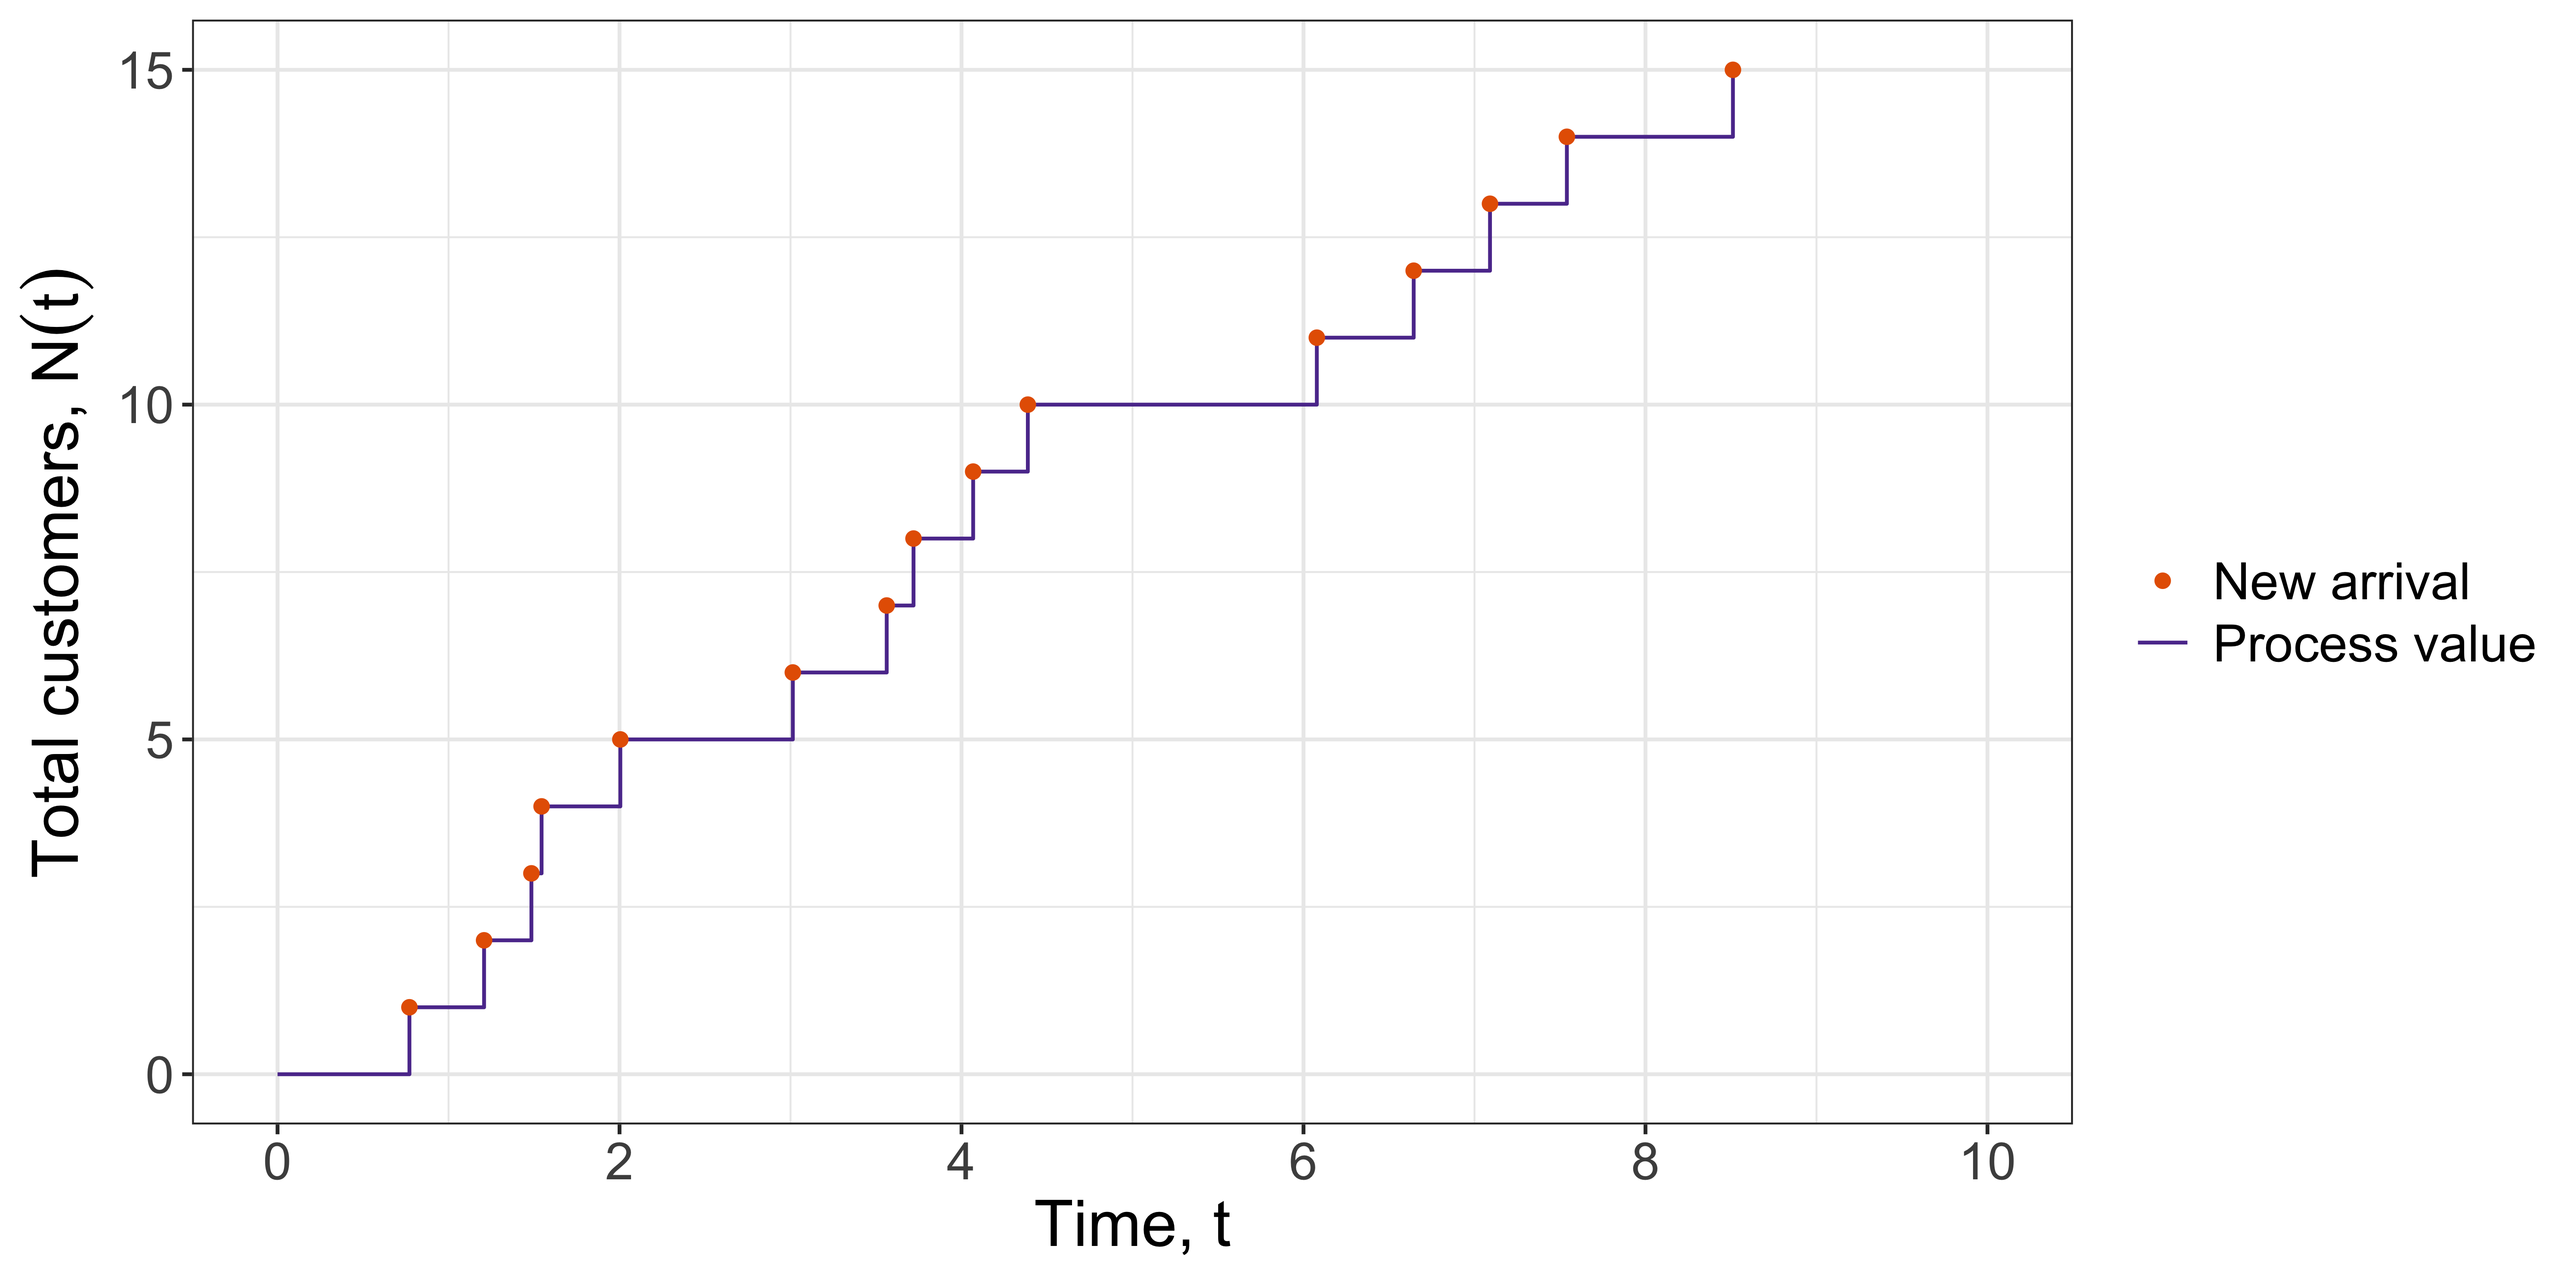
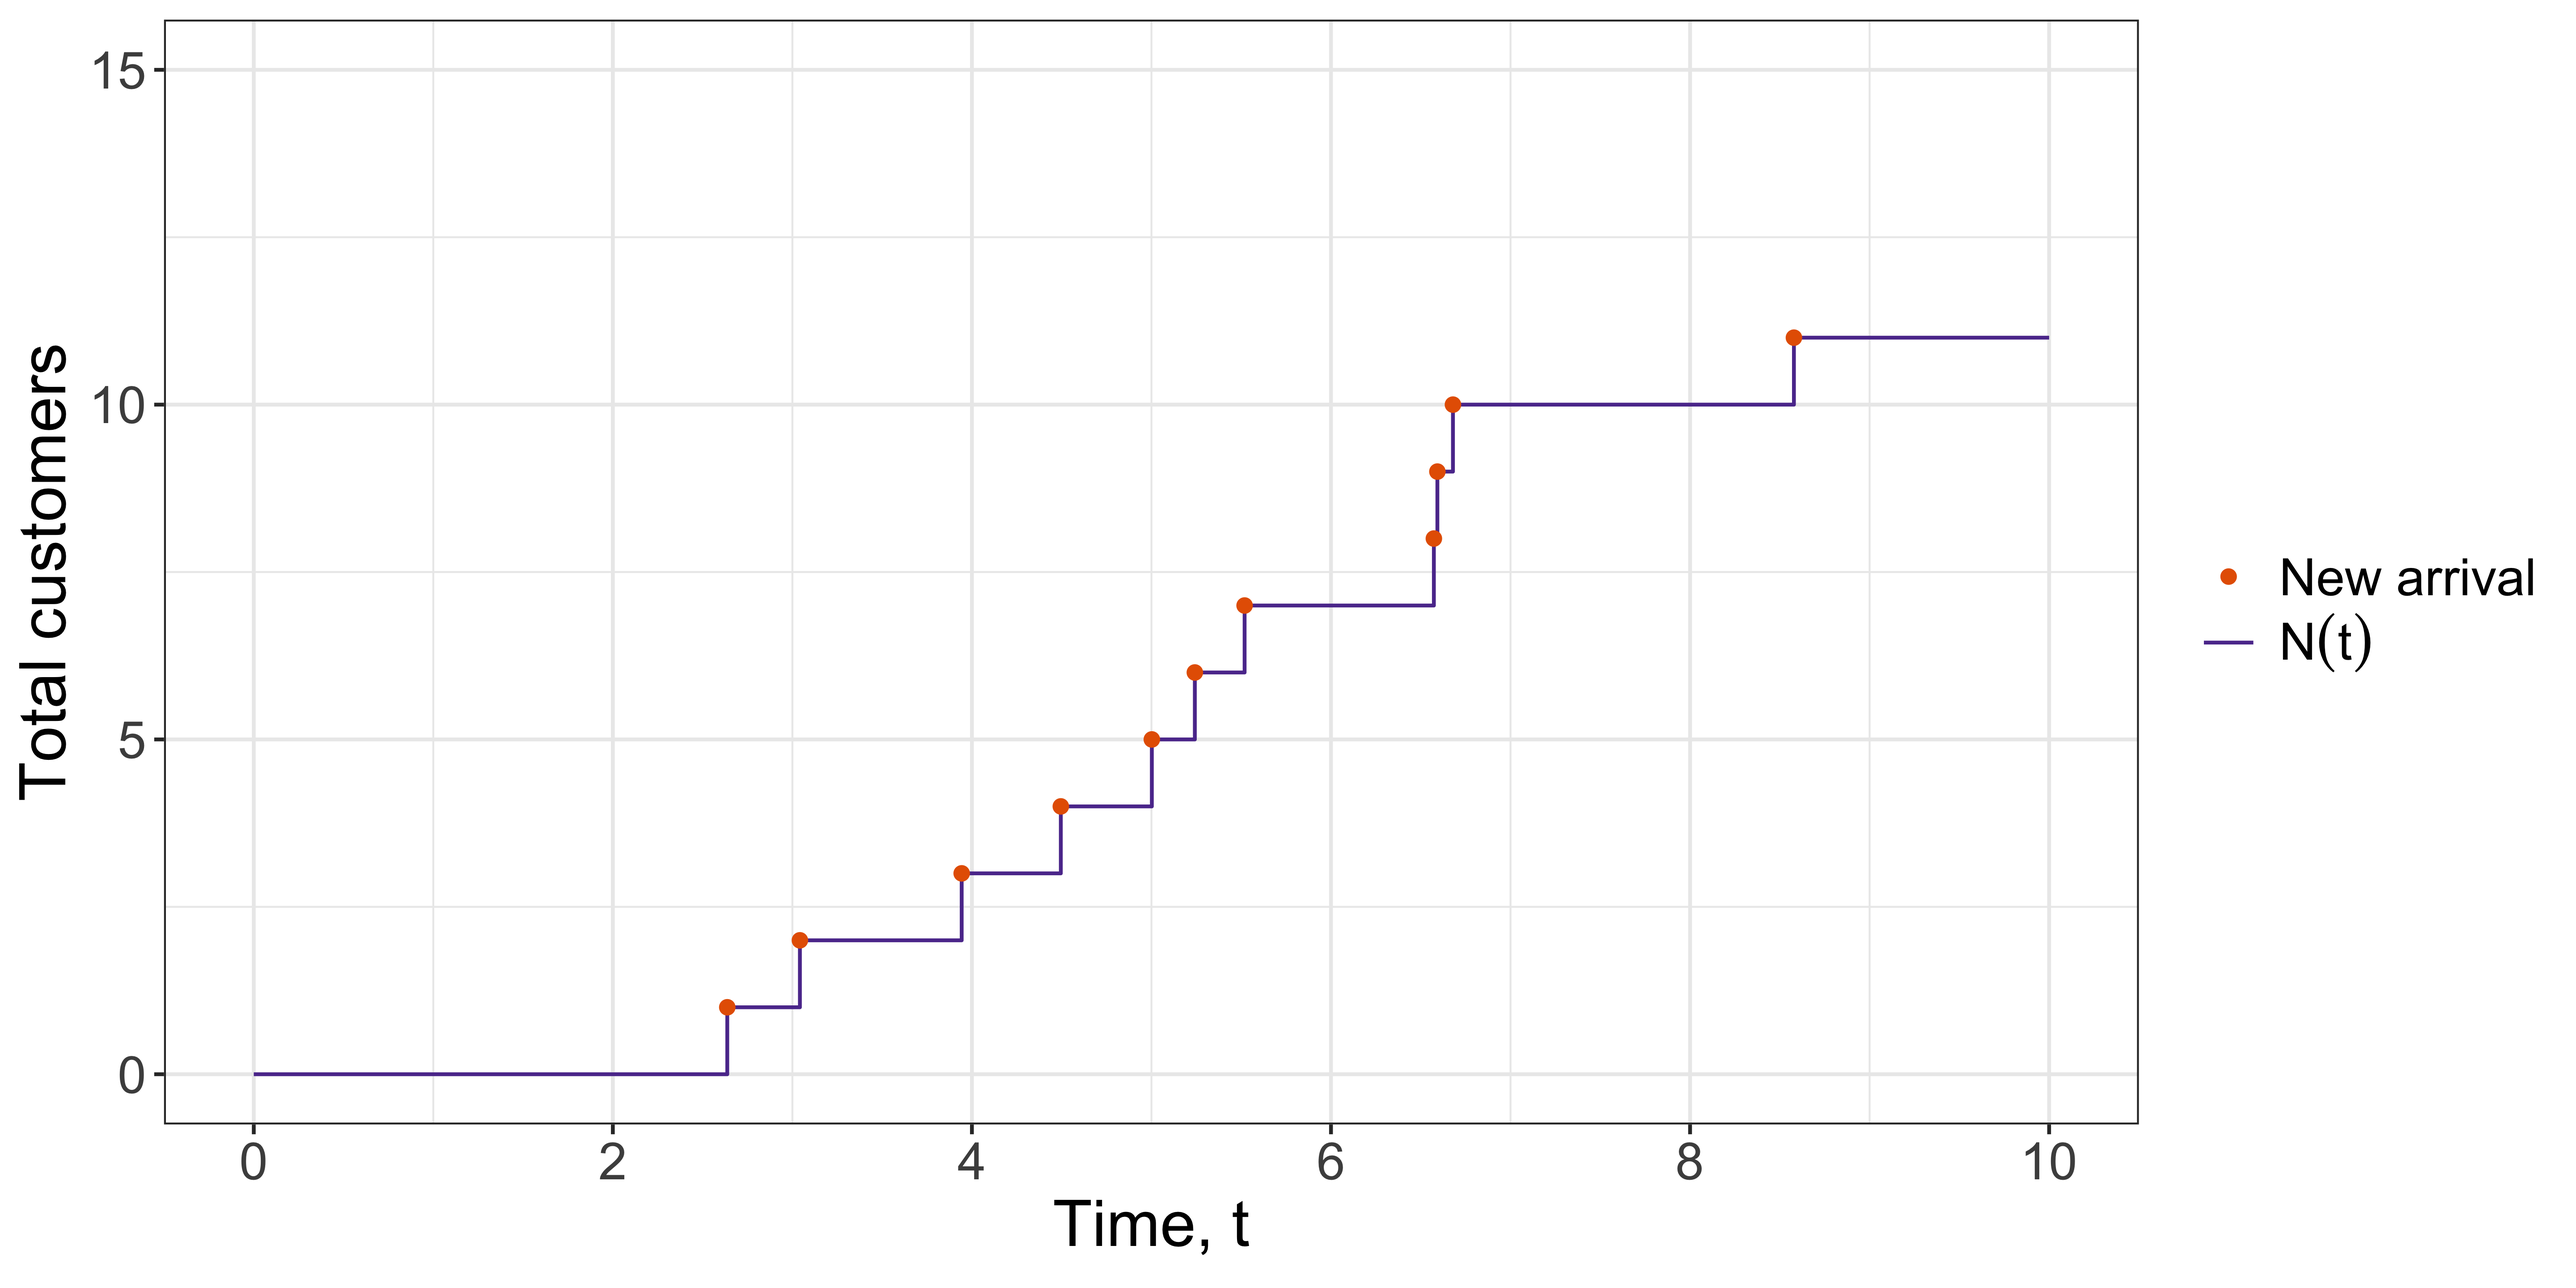
poisson viz

diff --git a/pp.html b/pp.html
@@ -368,11 +368,12 @@ Joshua J Bon
 <div class="columns">
 <div class="column" style="width:60%;">
 <ul>
-<li class="fragment"><p>Motivation &amp; History</p></li>
+<li class="fragment"><p>Motivating example</p></li>
 <li class="fragment"><p>Poisson Process</p>
 <ul>
 <li class="fragment">Definition</li>
 <li class="fragment">Properties</li>
+<li class="fragment">History</li>
 <li class="fragment">Activity</li>
 </ul></li>
 <li class="fragment"><p>Recap and more</p></li>
@@ -407,7 +408,7 @@ Joshua J Bon
 </div>
 <div class="callout-content">
 <ul>
-<li class="fragment">What is the probability of exceeding 20 customers during the first after opening?</li>
+<li class="fragment">What is the probability of exceeding 20 customers during the first hour after opening?</li>
 <li class="fragment">After one customer arrives, what is the average time until the next customer arrives?</li>
 </ul>
 </div>
@@ -428,7 +429,92 @@ Joshua J Bon
 <p><strong>Coffee Shop Q1</strong></p>
 </div>
 <div class="callout-content">
-<p>What is the probability of exceeding 20 customers during the first after opening?</p>
+<p>What is the probability of exceeding 20 customers during the first hour after opening?</p>
+</div>
+</div>
+</div>
+</section></section>
+<section>
+<section id="poisson-processes" class="title-slide slide level1 center">
+<h1>Poisson processes</h1>
+
+</section>
+<section id="visualising-the-poisson-process" class="slide level2">
+<h2>Visualising the Poisson process</h2>
+
+<img data-src="pp_files/figure-revealjs/PPr1-1.png" width="2880" class="r-stretch quarto-figure-center"><p class="caption">Process realisation 1</p></section>
+<section id="visualising-the-poisson-process-1" class="slide level2">
+<h2>Visualising the Poisson process</h2>
+
+<img data-src="pp_files/figure-revealjs/PPr2-1.png" width="2880" class="r-stretch quarto-figure-center"><p class="caption">Process realisation 2</p></section>
+<section id="visualising-the-poisson-process-2" class="slide level2">
+<h2>Visualising the Poisson process</h2>
+
+<img data-src="pp_files/figure-revealjs/PPr3-1.png" width="2880" class="r-stretch quarto-figure-center"><p class="caption">Process realisation 3</p></section>
+<section id="visualising-the-poisson-process-3" class="slide level2">
+<h2>Visualising the Poisson process</h2>
+
+<img data-src="pp_files/figure-revealjs/PPmean-1.png" width="2880" class="r-stretch quarto-figure-center"><p class="caption">Process mean and realisations</p></section>
+<section id="visualising-the-poisson-process-4" class="slide level2">
+<h2>Visualising the Poisson Process</h2>
+<div>
+
+</div>
+<div class="cell quarto-layout-panel" data-layout="[1, 1]">
+<div class="quarto-layout-row">
+<div class="quarto-layout-cell" style="flex-basis: 50.0%;justify-content: center;">
+<p><img data-src="pp_files/figure-revealjs/PPvalue2-1.png" width="2880"></p>
+</div>
+<div class="quarto-layout-cell" style="flex-basis: 50.0%;justify-content: center;">
+<p><img data-src="pp_files/figure-revealjs/PPvalue2-2.png" width="2880"></p>
+</div>
+</div>
+</div>
+</section>
+<section id="visualising-the-poisson-process-5" class="slide level2">
+<h2>Visualising the Poisson Process</h2>
+<div>
+
+</div>
+<div class="cell quarto-layout-panel" data-layout="[1, 1]">
+<div class="quarto-layout-row">
+<div class="quarto-layout-cell" style="flex-basis: 50.0%;justify-content: center;">
+<p><img data-src="pp_files/figure-revealjs/PPvalue4-1.png" width="2880"></p>
+</div>
+<div class="quarto-layout-cell" style="flex-basis: 50.0%;justify-content: center;">
+<p><img data-src="pp_files/figure-revealjs/PPvalue4-2.png" width="2880"></p>
+</div>
+</div>
+</div>
+</section>
+<section id="visualising-the-poisson-process-6" class="slide level2">
+<h2>Visualising the Poisson Process</h2>
+<div>
+
+</div>
+<div class="cell quarto-layout-panel" data-layout="[1, 1]">
+<div class="quarto-layout-row">
+<div class="quarto-layout-cell" style="flex-basis: 50.0%;justify-content: center;">
+<p><img data-src="pp_files/figure-revealjs/PPvalue6-1.png" width="2880"></p>
+</div>
+<div class="quarto-layout-cell" style="flex-basis: 50.0%;justify-content: center;">
+<p><img data-src="pp_files/figure-revealjs/PPvalue6-2.png" width="2880"></p>
+</div>
+</div>
+</div>
+</section>
+<section id="visualising-the-poisson-process-7" class="slide level2">
+<h2>Visualising the Poisson Process</h2>
+<div>
+
+</div>
+<div class="cell quarto-layout-panel" data-layout="[1, 1]">
+<div class="quarto-layout-row">
+<div class="quarto-layout-cell" style="flex-basis: 50.0%;justify-content: center;">
+<p><img data-src="pp_files/figure-revealjs/PPvalue8-1.png" width="2880"></p>
+</div>
+<div class="quarto-layout-cell" style="flex-basis: 50.0%;justify-content: center;">
+<p><img data-src="pp_files/figure-revealjs/PPvalue8-2.png" width="2880"></p>
 </div>
 </div>
 </div>
@@ -466,23 +552,6 @@ Joshua J Bon
 <li class="fragment"><p>Adopted quickly in: biology, ecology, engineering, physics</p></li>
 </ul>
 <aside><ol class="aside-footnotes"><li id="fn1"><p>See <span class="citation" data-cites="stirzaker2000advice">Stirzaker (<a href="#/references" role="doc-biblioref" onclick="">2000</a>)</span> for more details</p></li></ol></aside></section></section>
-<section>
-<section id="poisson-processes" class="title-slide slide level1 center">
-<h1>Poisson processes</h1>
-
-</section>
-<section id="visualising-the-poisson-process" class="slide level2">
-<h2>Visualising the Poisson process</h2>
-
-<img data-src="pp_files/figure-revealjs/PPr1-1.png" width="2880" class="r-stretch"></section>
-<section id="visualising-the-poisson-process-1" class="slide level2">
-<h2>Visualising the Poisson process</h2>
-
-<img data-src="pp_files/figure-revealjs/PPr2-1.png" width="2880" class="r-stretch"></section>
-<section id="visualising-the-poisson-process-2" class="slide level2">
-<h2>Visualising the Poisson process</h2>
-
-<img data-src="pp_files/figure-revealjs/PPr3-1.png" width="2880" class="r-stretch"></section></section>
 <section>
 <section id="activity" class="title-slide slide level1 center">
 <h1>Activity</h1>
